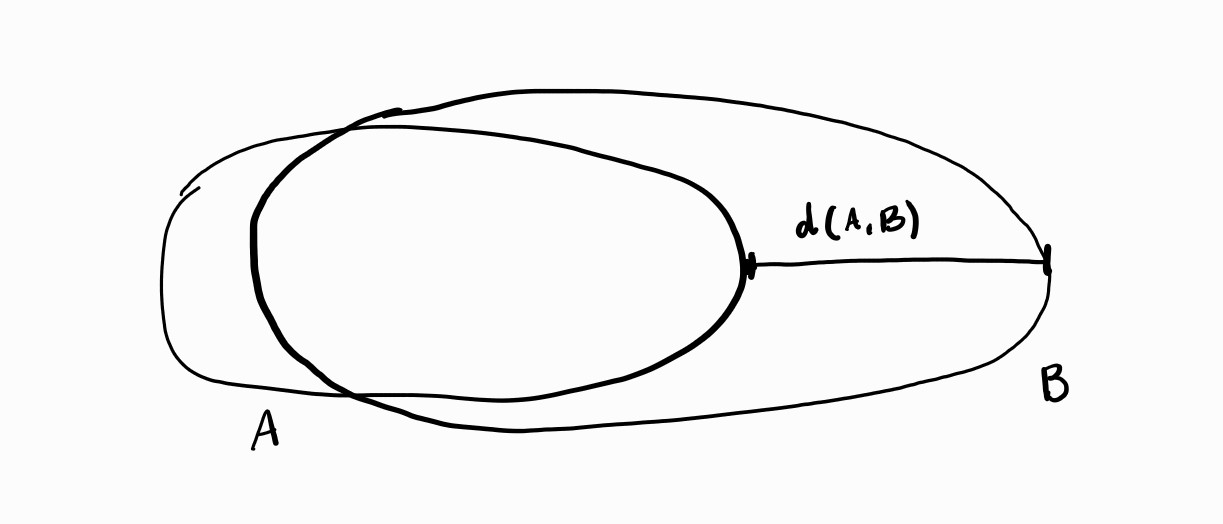
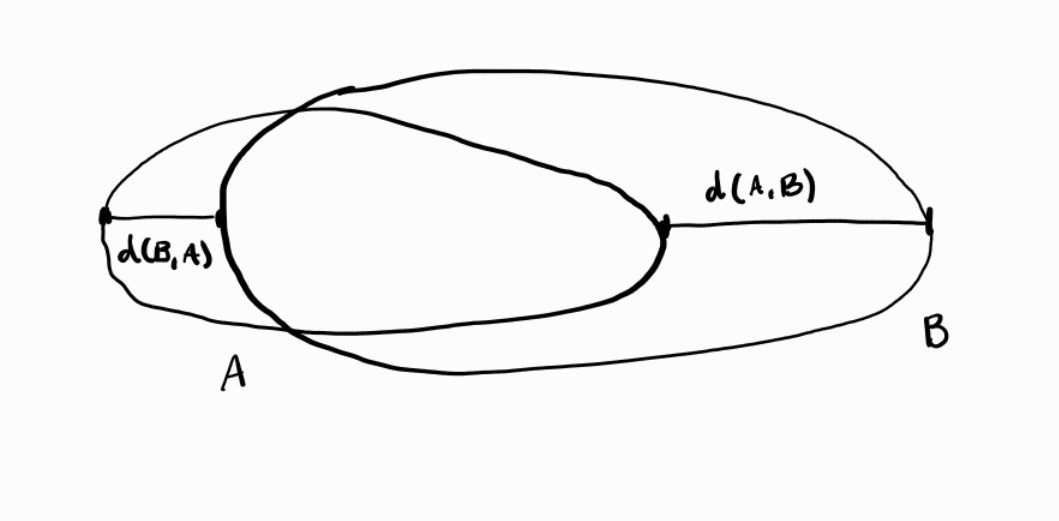
add markdown

diff --git a/main.md b/main.md
@@ -1,0 +1,218 @@
+Remember the Pacman game from the blog post [TODO link to the blog by Alyssa and Max]? The authors applied a determinization procedure to it, but did not draw the resulting coalgebra. In this post, we introduce different algebraic presentations of monads that model nondeterminism and probability in order (among other niceties) to draw that determinized automaton. Determinization is the first step for computing equivalences of automata. In the second part of this blog, we go beyond equalities and define a distance between automata, without losing our previously defined
+${Set}$-monads, nor their presentations.
+
+**Algebraic presentations of monads for automata**
+
+This blog post builds on the great post [TODO link to the blog by Alyssa and Max], and we advise reading it before proceeding. In that post, we learned how transition systems can be modeled as coalgebras $S \to F(S)$, with $S$ a set of states and $F$ a functor. We also encountered automata and a notion of equivalence between automata given by determinization followed by bisimulation. Recall that an automaton with $M$-effects, labels in $A$, and observations in $O$ is a coalgebra $S \to O \times (MS)^A$. Each transition is given a label from the set $A$, the set $O$ describes all the observations one can make about a state in $S$, and the functor $M$ gives some flavor to the transitions...
+
+Consider for example the monad $\mathcal{C}$ of non-empty finitely generated convex sets of probability distributions. Intuitively, $\mathcal{C}$ models nondeterministic choice followed by probabilistic choice. For example, we can model Alyssa's Pacman game!
+
+![Pacman Game](pacman.png)
+
+Rather than writing down unit and multiplication explicitly, we will use a *presentation* of $\mathcal{C}$: an algebraic theory $(\Sigma, E)$ such that $\mathcal{C}$ is isomorphic to the monad mapping sets of variables to $\Sigma$-terms modulo $E$. Intuitively, a presentation of $M$ is to algebras of $M$ what the theory of rings is to rings. The $M$-algebras are *models* of the presentation.
+
+We will see that handling $\mathcal{C}$ via a presentation is very convenient. For instance, to determinize an automaton with $M$-effects and $O$-observations, we need an algebra $MO \to O$. A presentation tells us exactly what structure $O$ must carry! 
+
+For $\mathcal{C}$, it was shown in [1] that this monad is presented by the theory of convex semilattices, whose signature
+is made of a binary operation $\oplus$ (nondeterministic choice), and for each $p \in (0,1)$ a binary operation $+_p$ (probabilistic choice with probability $p$), and whose axioms are:
+\[
+\begin{aligned}
+&\text{(A)} && x \oplus (y \oplus z) = (x \oplus y) \oplus z \\
+&\text{(C)} && x \oplus y = y \oplus x \\
+&\text{(I)} && x \oplus x = x \\
+&\text{(A}_{q,p}\text{)} && (x +_q y) +_p z = x +_{pq} (y +_{\frac{1-q}{1-p}} z) \\
+&\text{(C}_p\text{)} && x +_p y = y +_{1-p} x \\
+&\text{(I}_p\text{)} && x +_p x = x \\
+&\text{(D)} && x +_p (y \oplus z) = (x +_p y) \oplus (x +_p z)
+\end{aligned}
+\]
+
+With a presentation of $\mathcal{C}$, we get a language to describe the new states of the determinization of a $\mathcal{C}$-automaton: each determinized state is a finite expression made of the original states and the operations in the signature like $\mathtt{Pacman}$ or $\mathtt{win} +_{3/4} \mathtt{lose}$. The presentation tells us how to compute the transitions:
+For "simple" states like $\mathtt{Pacman}$, we just read from the automaton the expression corresponding to the right combination of nondeterminism and probability:
+\[
+\begin{array}{l}
+     \mathtt{Pacman}\\
+    \downarrow \mathtt{play}\\
+    (\mathtt{win} +_{0.75} \mathtt{lose}) \oplus  ((\mathtt{win} +_{0.5} \star) +_{0.5} \mathtt{lose})
+\end{array}
+\]
+
+For "complex" states like the one above, the theory of presentations tell us that every occurrence of simple states can be replaced by the complex state it transitions to, e.g.:
+\[
+\begin{array}{l}
+    (\mathtt{win} +_{0.75} \mathtt{lose}) \oplus  ((\mathtt{win} +_{0.5} \star) +_{0.5} \mathtt{lose})\\
+    \downarrow \mathtt{next\ level}\\
+    (\mathtt{Pacman} +_{0.75} \star) \oplus  ((\mathtt{Pacman} +_{0.5} \star) +_{0.5} \star)
+\end{array}
+\]
+
+Finally, we can use the equations of the presentation to simplify this expression a bit:
+\[
+\begin{array}{ll}
+    (&\mathtt{Pacman} +_{0.75} \star) \oplus  ((\mathtt{Pacman} +_{0.5} \star) +_{0.5} \star)\\
+    &= (\mathtt{Pacman} +_{0.75} \star) \oplus  (\mathtt{Pacman} +_{0.25} (\star +_{1} \star) & ({A}_{0.5, 0.5})\\
+    &= (\mathtt{Pacman} +_{0.75} \star) \oplus (\mathtt{Pacman} +_{0.25} \star) & (\text{I})
+\end{array}
+\]
+
+
+**Modeling termination**
+
+The way we modeled ragequit and actions not applying on certain states using a terminal state $\star$ is a bit ad hoc, though. A more systematic way of modeling termination (e.g., a program returning or crashing) which also behaves better with more complex sets of observations, is to compose the monad $M$ modeling certain effects with the $+1$ termination monad, which acts on sets by adding a distinct element $\star$ representing termination. This yields a new monad $M(+1)$. Having a monad is useful: we can use the same automaton formalism, but with termination. 
+For $\mathcal{C}$, this gives the monad $\mathcal{C}(+1)$ of non-empty finitely generated convex sets of *subdistributions*, i.e., a probability distribution whose total mass is less or equal to $1$ (instead of exactly $1$).
+
+Interestingly, this monad is presented by the theory of *pointed* convex semilattices, i.e., we add an extra symbol $\star$ in the signature with no additional equations. 
+
+However, there are different ways to model termination with the monad $\mathcal{C}$: for example, termination may be a nondeterministic alternative: a state either transitions to a non-terminating effectful state, or terminates outright. In our example, however, termination is probabilistic: some actions have a chance to lead to termination every time they are applied.
+
+This is another point where algebraic presentations shine: it is easy to add additional axioms to the theory of pointed convex semilattices to refine the meaning of termination, and it again gives a presentation of some monad. However, there is not always a nice semantic description of these monads... Nevertheless, it does when adding either the bottom axiom $(\bot)$, or both $(\bot)$ and the black hole axiom $(BH)$!
+$$\begin{aligned}
+    &\{x \oplus \star = x\}\ (\bot) &\{x +_p \star = \star \mid p \in (0, 1)\}\ (BH)
+\end{aligned}$$
+The resulting monads are called $\mathcal{C}+1$ and $\mathcal{C}^\downarrow$.
+
+**From equivalences to distances between automata**
+
+Now here comes the best part: while equivalences of automata are nice, distance between programs are even nicer, and sometimes necessary to reason properly about programs with probability and nondeterminism! Our intuition tells us that programs that return the same output with high-probability should be closer than programs whose output are different almost all the times. Distances make this intuition formal by using quantities (usually real numbers) to represent how close/far programs are. We follow [3].
+
+Consider for example the following transition system from Section 2 of [2], without labels, and with state space $X = \{u,x,y,z\}$, where $\varepsilon \in [0,0.5]$, $z$ is an accepting state and $u$ is a fail state, which once reached can never be left and the system loops indefinitely.
+
+![pts](images/pts.jpg)
+
+If we compare the behavior of $x$ and $y$, we see that they are not behaviorally equivalent. This is because in state $x$ there is always a bias towards the accepting state $z$ which is controlled by the value of $\varepsilon$. However, we would like to say that their behavioral distance is $\varepsilon$. If we took $\varepsilon = 0$, then they would really be behaviorally equivalent.
+In the rest of this post, we will show how to formalize this notion of distance without losing the benefits of presentations!
+To begin with, we will need to work with monads in ${1Met}$ rather than ${Set}$ in order to get a notion of distance.
+
+**1-bounded metric spaces**
+
+A **1-bounded metric space** is a pair $(X, d)$ with $X$ a set and $d \colon X \times X \to [0,1]$ such that $d(x, y) = 0$ if and only if $x = y, d(x, y) = d(y, x)$, and $d(x, y) \leq d(x, z) + d(z, y)$, for all $x, y, z \in X$. A function $f \colon X \to Y$ between two 1-bounded metric spaces $(X, d_X)$ and $(Y, d_Y)$ is **non-expansive** if $d_Y (f (x_1), f (x_2)) \leq d_X (x_1, x_2)$ for all $x_1, x_2 \in X$. We denote with ${1Met}$ the category of 1-bounded metric spaces and non-expansive maps.
+
+We now need some ${1Met}$ monads to replace the ${Set}$-monads we used for effects. A solution is to lift ${Set}$ monads! Given an endofunctor $F \colon {Set} \to {Set}$, if we start with a metric space $(X,d)$, the idea is to endow $F(X)$ with a metric so we can define $\hat F \colon {1Met} \to {1Met}$ using the same actions on objects and arrows as $F$. Before applying this idea to $\mathcal{C}$, let's start by lifting the powerset and probability distribution monads $\mathcal{P}$ and $\mathcal{D}$, modeling respectively probability and nondeterminism.
+Recall that $\mathcal{P}$ maps sets $X$ to their powerset $\mathcal{P} X$, while $\mathcal{D}$ maps $X$ to the set of finitely supported probability distributions on $X$.
+
+**Lifting of $\mathcal{C}$.**
+
+To lift the functor $\mathcal{P}$ to ${1Met}$ we need a notion of distances between subsets. Given a metric space $(X,d)$, we define a distance between $A, B \subseteq X$ using the metric $d$. The idea is to measure how far $A$ is from $B$ in $X$:
+
+![dist sets](images/dist-sets.jpg)
+
+Intuitively, we want $A$ to be equal to $B$ if and only if this distance is equal to zero.
+We start with the notion of distance between a point $x \in X$ and a subset $A \subseteq X$:
+
+![dist points](images/dist-point.jpg)
+
+\[ d(A,x) = \inf\{d(x,y) : y \in A\} \]
+and continue with the distance between two subsets $A,B \subseteq X$:
+
+![dist sets 2](images/dist-sets2.jpg.jpg)
+
+\[ d(A,B) = \sup\{d(A,x) : x \in B\} \]
+
+Now, in order to ensure symmetry, we need to compare the distances $d(A,B)$ and $d(B,A)$, resulting exactly in the definition we wanted for the first image
+\[ H(d)(A,B) = \max\{d(A,B),d(B,A)\} \]
+$H(d)$ is known as the **Hausdorff lifting of $d$**.
+Finally, one can prove that, starting with a 1-bounded metric space $(X,d)$, we have that $(\mathcal{P}(X),H(d))$ is also a 1-bounded metric space.
+
+Now, for the functor $\mathcal{D}$ we need a more elaborated example in order to understand the intuition behind the lifting (we follow Section 2.1 of [2]).
+
+Suppose you are the owner of three coffee roasting plants, $A,B$ and $C$, each with an adjacent café where one can taste the coffee. We let $X = \{A,B,C\}$ be the set of places and consider the distributions $P \colon X \to [0,1]$ and $Q \colon X \to [0,1]$ below to model supply and demand, respectively, of each product in proportion to the total supply or demand:
+
+\[
+\begin{array}{cccccccccc}
+    & P \colon & X & \longrightarrow & [0,1] & & Q \colon & X & \longrightarrow & [0,1]\\
+    \\
+    & & A & \mapsto & 0.7 & & & A & \mapsto & 0.2 \\
+    \\
+    & & B & \mapsto & 0.1 & & & B & \mapsto & 0.3\\
+    \\
+    & & C & \mapsto & 0.2 & & & C & \mapsto & 0.5
+\end{array}
+\]
+(For the sake of simplicity,
+we assume that the total amount of production equals the amount of consumption.)
+
+We have illustrated this situation graphically below. The numbers on the edges indicate the distance between the places $A$, $B$ and $C$ (the distance between a place and itself is $0$) whereas the numbers on the nodes indicate supply $P$ (upper value) and
+demand $Q$ (lower value):
+
+![Kant lift](images/kant-lift.jpg)
+
+The goal is to find an economically motivated view of defining a distance between $P$ and $Q$ based on the notion of transportation which is studied extensively in transportation theory [4]. The leading idea is that the product needs to be transported so as to avoid excess supply and meet all demands.
+
+Formally, we will have to define a function $t \colon X \times X \to [0, 1]$ where $t(x, y)$ describes (in %) the amount of goods to be transported from place $x$ to $y$ such that:
+* supplies are used up: for all $x \in X$ we must have $\sum_{y \in X} t(x, y) = P (x)$;
+* demand is satisfied: for all $y \in X$ we must have $\sum_{x\in X} t(x, y) = Q(y)$.
+
+In probability theory, such a function is a joint probability distribution on $X \times X$ with marginals $P$ and $Q$ and is called a coupling of $P$ and $Q$. Here, we will call it a transportation plan for supply $P$ and demand $Q$ and write $T (P, Q)$ for the set of all such transportation plans.
+
+Supposing the cost of transporting coffee from a place to another is directly proportional to the distance between the places, to minimize the costs we want to minimize $\sum_{x,y \in X} t(x,y) \cdot d(x,y)$ among all possible transportation plans. Having that in mind we define
+\[ K(d)(P,Q) = \inf\{\sum_{x,y \in X} t(x,y) \cdot d(x,y) : t \in T (P, Q)\} \]
+
+For a generic metric space $(X,d)$ and distributions $\varphi_1, \varphi_2 \in \mathcal{D}(X)$, we define
+\[K(d)(\varphi_1,\varphi_2) = \inf_{t \in Coup(\varphi_1,\varphi_2)} (\sum_{(x_1,x_2) \in X \times X} t(x_1,x_2) \cdot d(x_1,x_2) )\]
+where $Coup(\varphi_1, \varphi_2)$ is defined as the collection of couplings of $\varphi_1$ and $\varphi_2$, i.e., 
+$$Coup(\varphi_1, \varphi_2) = \{t \in \mathcal{D}(X \times X) : \mathcal{D}(\pi_1)(t) = \varphi_1 \text{ and } \mathcal{D}(\pi_2)(t) = \varphi_2\}$$ where $\pi_1 : X_1 \times X_2 \to X_1$ and $\pi_2 : X_1 \times X_2 \to X_2$ are the projection functions. These are the generic equivalent of using all the supplies and satisfying all demands as exemplified above.
+$K(d)$ is known as the **Kantorovich lifting of $d$**.
+Starting with a 1-bounded metric space $(X,d)$, one can prove that $(\mathcal{D}(X),K(d))$ is also a 1-bounded metric space.
+
+Since $\mathcal{C}(X) \subseteq \mathcal{P}\mathcal{D}(X)$ we can use these two liftings to define a distance function for $\mathcal{C}(X)$, that is we can show that $(C(X), HK(d))$ is a 1-bounded metric space. This gives us our desired ${1Met}$-monad $\hat \mathcal{C}$, which has the same action on arrows and same unit and multiplication as the monad $\mathcal{C}$.
+
+**What about presentations?**
+
+Now, the difference in considering program distances instead of program equivalence is expressed also algebraically. Instead of describing the axioms using equality "$=$", we use relations $a =_{\varepsilon} b$ which we think of as saying that "$a$ is equal to $b$ up to an error of $\varepsilon$".  
+
+We replace equalities by quantitative inferences:
+$$\{x_i =_{\varepsilon_i} y_i\}_{i\in I} \vdash s =_{\varepsilon} t$$ where $\varepsilon$, $\varepsilon_i \in [0,1]$ and $s, t$ are terms. 
+
+A quantitative inference is satisfied in a quantitative algebra $(A, {f^A}_{f \in \Sigma},d)$, where the maps $f^A$ are non-expansive and $(A,d) \in {1Met}$, if, for all $x_i,y_i,s,t \in A$, we have:
+\[ \text{if } d(x_i, y_i) \leq \varepsilon_i \text{ for all } i \in I, \text{ then } (s, t) \leq \varepsilon.\]
+
+Similarly, we replace algebraic theories by quantitative equational theories.
+For instance, the quantitative equational theory of convex semilattices has signature $\Sigma_CS = (\{\oplus\}\cup\{+_p\}_{p\in(0,1)})$ and is defined as the set of quantitative inferences derivable by the following axioms, stated for arbitrary $p, q \in (0, 1)$ and $\varepsilon_1, \varepsilon_2 \in [0, 1]$:
+we substitute every axiom $A,C,I,A_p,C_p,I_p$ and $D$ in $\Th_{CS}$ by changing the usual equality "$=$" for the inference $ \emptyset \vdash $ with $=_0$
+\[
+\begin{aligned}
+&\text{(A)} && \emptyset \vdash x \oplus (y \oplus z) =_{0} (x \oplus y) \oplus z \\
+&\text{(C)} && \emptyset \vdash x \oplus y = y \oplus x \\
+&\text{(I)} && \emptyset \vdash x \oplus x = x \\
+&\text{(A}_p) && \emptyset \vdash (x +_q y) +_p z = x +_{pq} (y +_{\frac{1-q}{1-p}} z) \\
+&\text{(C}_p) && \emptyset \vdash x +_p y = y +_{1-p} x \\
+&\text{(I}_p) && \emptyset \vdash x +_p x = x \\
+&\text{(D)} && \emptyset \vdash x +_p (y \oplus z) = (x +_p y) \oplus (x +_p z) \\
+\end{aligned}
+\]
+and add the following quantitative inferences
+\[
+\begin{aligned}
+&\text{(H)} && \{x_1 =_{\varepsilon_1} y_1, x_2 =_{\varepsilon_2} y_2\} \vdash x_1 \oplus x_2 =_{max(\varepsilon_1,\varepsilon_2)} y_1 \oplus y_2 \\
+&\text{(K)} && \{x_1 =_{\varepsilon_1} y_1, x_2 =_{\varepsilon_2} y_2\} \vdash x_1 +_p x_2 =_{p \cdot \varepsilon_1 + (1-p) \cdot \varepsilon_2} y_1 +_p y_2 
+\end{aligned}
+\]
+
+A model of a quantitative equational theories is then a quantitative algebra: a ${1Met}$ space $A$ with a non-expensive function for all symbols of the theory, such that for every inference $\{x_i =_{\varepsilon_i} y_i\}_{i\in I} \vdash s =_{\varepsilon} t$, and variables $x_i, y_i$ in $A$, if $d(x_i, y_i) \leq \varepsilon_i$ for all $i \in I$, then $d(s,t)\leq \varepsilon$ when we interpret the variables $x_i$ and $y_i$ by the corresponding points in $A$, and the symbols by the corresponding functions on $A$.
+
+**Lifting termination.**
+
+As in the ${Set}$ case, there is also a termination monad $+\hat 1$ that can be composed with any ${1Met}$ monad. We thus get a monad $\hat \mathcal{C}(+ \hat 1)$ for free.
+
+$\hat{\mathcal{C}}(+\hat{1})$ is also nicely presented by the quantitative equational theory of *pointwise* convex semilattices, mirroring the ${Set}$-case! For the $\mathcal{C}^\downarrow$ monad, more work is needed to provide a semantic description of the ${1Met}$-monad $\hat{\mathcal{C}^\downarrow}$ presented by quantitative equational theory of pointed convex semilattices with the additional quantitative inference 
+\[
+\begin{aligned}
+&(\bot_\text{Q}) && \emptyset \vdash x \oplus \star =_0 x. 
+\end{aligned}
+\]
+As for the $\mathcal{C}+1$ monad, however, if we also add the quantitative inference
+\[
+\begin{aligned}
+&(\text{BH}_\text{Q}) && \emptyset \vdash x+_p \star =_0 \star 
+\end{aligned}
+\]
+for $p \in (0,1)$, then the result theory collapses: the quantitative $\emptyset \vdash x =_0 y$ is derivable, i.e. the underlying metric space is a point!
+
+[1] The Theory of Traces for Systems with Nondeterminism, Probability, and Termination, by Filippo Bonchi, Ana Sokolova, and Valeria Vignudelli
+
+[2] Coalgebraic Behavioral Metrics, by Paolo Baldan, Filippo Bonchi, Henning Kerstan and Barbara König
+
+[3] Combining Nondeterminism, Probability, and
+Termination: Equational and Metric Reasoning, by Matteo Mio, Ralph Sarkis andValeria Vignudelli
+
+[4] Optimal Transport – Old and New, by Cédric Villani

diff --git a/README.md b/README.md
@@ -1,1 +1,1 @@
-Attention! This repo is still being updated, this is not the final version of the blog post.
+This repo contains our blog post in markdown/itex format. Only the link of the associated blog post is to add, when publishing 
